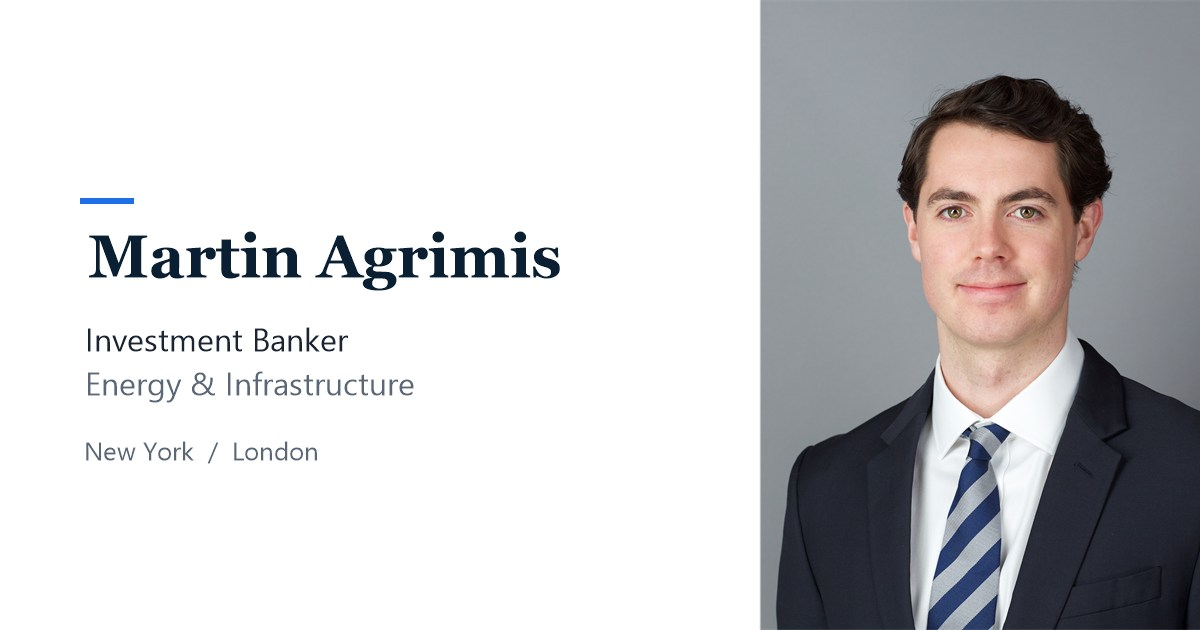
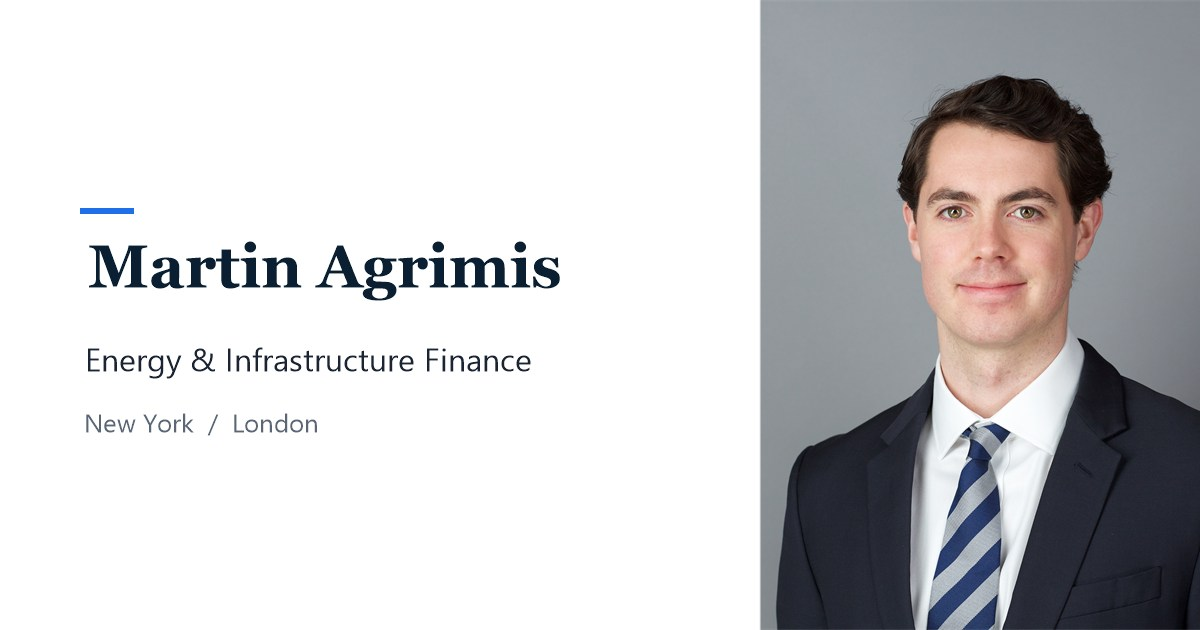
Update social card to read Energy and Infrastructure Finance
- Regenerate og-image.jpg with a single role line
- Sync og:image:alt on both pages

Changed region(s): [[0.0617, 0.5127, 0.4625, 0.754], [0.0617, 0.3016, 0.4933, 0.4825]]

diff --git a/about.html b/about.html
@@ -17,7 +17,7 @@
   <meta property="og:image" content="https://martinagrimis.com/og-image.jpg" />
   <meta property="og:image:width" content="1200" />
   <meta property="og:image:height" content="630" />
-  <meta property="og:image:alt" content="Martin Agrimis — Investment Banker, Energy & Infrastructure" />
+  <meta property="og:image:alt" content="Martin Agrimis — Energy & Infrastructure Finance" />
   <meta name="twitter:card" content="summary_large_image" />
   <meta name="twitter:title" content="Martin Agrimis — Experience" />
   <meta name="twitter:description" content="Investment banker — energy, power & digital infrastructure." />

diff --git a/index.html b/index.html
@@ -17,7 +17,7 @@
   <meta property="og:image" content="https://martinagrimis.com/og-image.jpg" />
   <meta property="og:image:width" content="1200" />
   <meta property="og:image:height" content="630" />
-  <meta property="og:image:alt" content="Martin Agrimis — Investment Banker, Energy & Infrastructure" />
+  <meta property="og:image:alt" content="Martin Agrimis — Energy & Infrastructure Finance" />
   <meta name="twitter:card" content="summary_large_image" />
   <meta name="twitter:title" content="Martin Agrimis" />
   <meta name="twitter:description" content="Investment banker — energy, power & digital infrastructure." />
